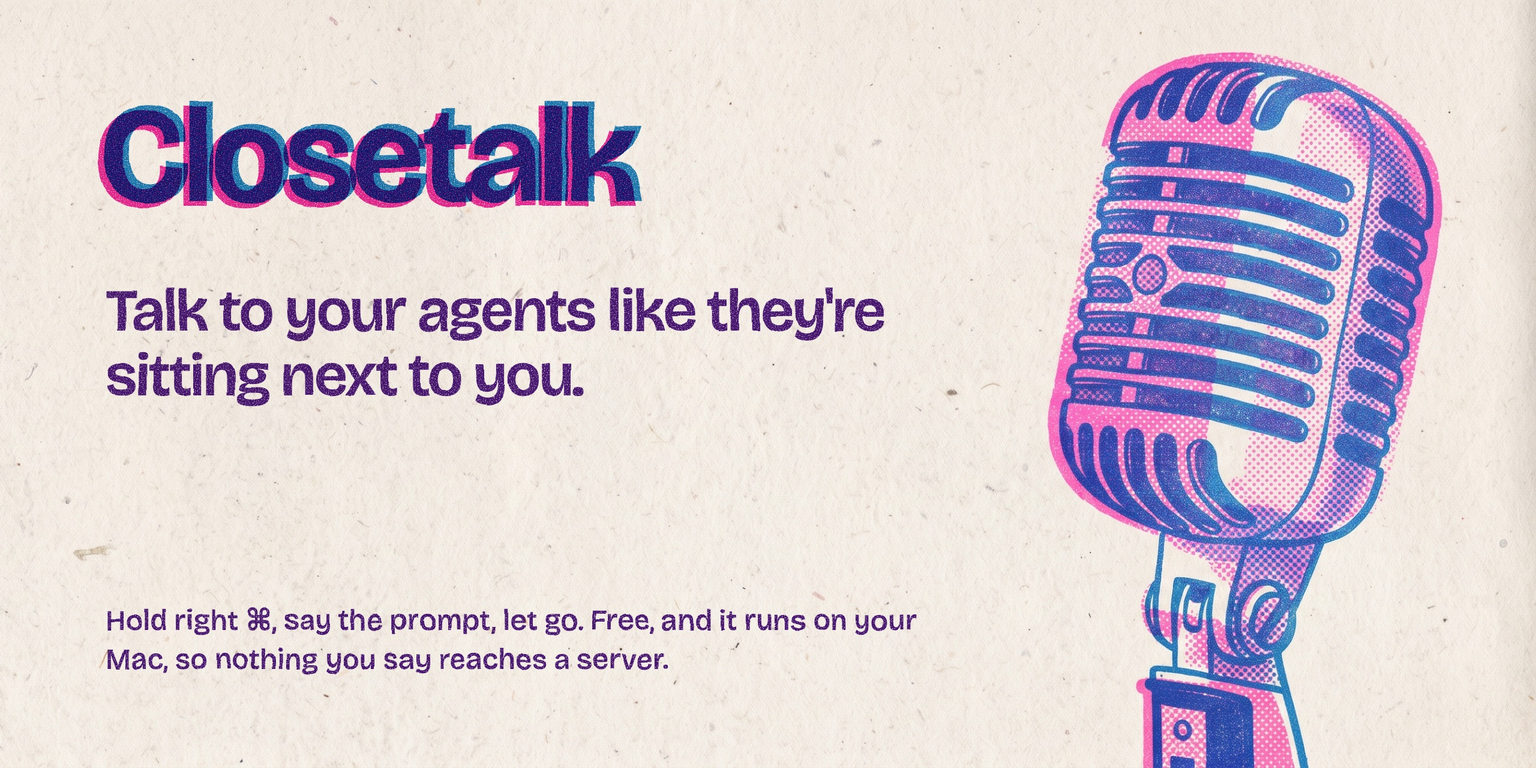
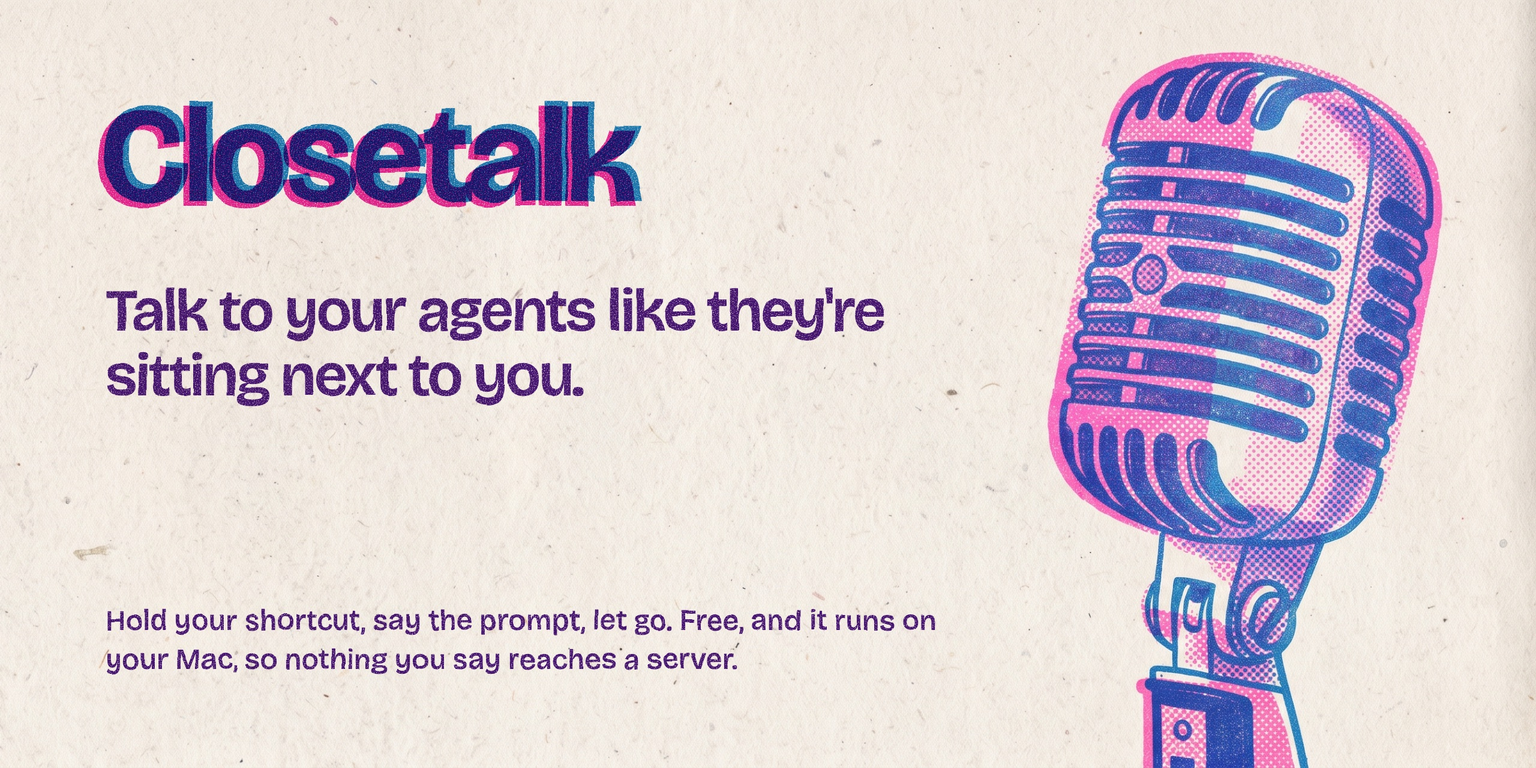
docs: stop presenting right ⌘ as the default shortcut
README, the landing page, the cover and social image, PRODUCT.md, DESIGN.md and the coding
standards now say "your shortcut", with right ⌘ only as one example. The hero no longer lights up
its shortcut callout when the visitor holds right ⌘.

Refs #50

Changed region(s): [[0.0625, 0.7812, 0.625, 0.875]]

diff --git a/site/app/mic-diagram.tsx b/site/app/mic-diagram.tsx
@@ -1,6 +1,3 @@
-"use client";
-
-import { useEffect, useState } from "react";
 import { preload } from "react-dom";
 
 // The hero diagram: the Riso mic with leader lines to four callouts. Coordinates live in one
@@ -48,8 +45,8 @@ const CALLOUTS: Callout[] = [
     side: "left",
     top: 330,
     pin: [579, 405],
-    title: "Hold right ⌘",
-    body: "Talk while you hold it. Let go, and the text lands at your cursor about a second later.",
+    title: "Hold your shortcut",
+    body: "Pick any key or combo in setup. Talk while you hold it, let go, and the text lands at your cursor.",
   },
   {
     id: "free",
@@ -70,25 +67,9 @@ export default function MicDiagram({ children }: { children: React.ReactNode }) 
   // The mic is the largest thing on the page, so fetch it before anything else.
   preload("/mic-ink.webp", { as: "image", fetchPriority: "high" });
 
-  // Holding right ⌘ on the page lights up the "Hold right ⌘" callout, the same gesture the app uses.
-  const [holding, setHolding] = useState(false);
-  useEffect(() => {
-    const down = (e: KeyboardEvent) => e.code === "MetaRight" && setHolding(true);
-    const up = (e: KeyboardEvent) => e.code === "MetaRight" && setHolding(false);
-    const reset = () => setHolding(false);
-    window.addEventListener("keydown", down);
-    window.addEventListener("keyup", up);
-    window.addEventListener("blur", reset);
-    return () => {
-      window.removeEventListener("keydown", down);
-      window.removeEventListener("keyup", up);
-      window.removeEventListener("blur", reset);
-    };
-  }, []);
-
   return (
     <div className="stage">
-      <div className="diagram" data-holding={holding || undefined}>
+      <div className="diagram">
         <svg className="diagram-art" viewBox={`0 0 ${STAGE.w} ${STAGE.h}`} role="img" aria-label="A vintage studio microphone, printed in pink and blue ink">
           <image href="/mic-ink.webp" x={MIC.x} y={MIC.y} width={MIC.w} height={MIC.h} />
           {CALLOUTS.map((c) => {

diff --git a/site/app/globals.css b/site/app/globals.css
@@ -69,13 +69,12 @@ p { margin: 0; }
 .callout h2 { font-size: clamp(17px, 1.9cqw, 23px); font-weight: 800; letter-spacing: -0.02em; line-height: 1.15; transition: color 160ms ease-out; }
 .callout p { margin-top: 6px; font-size: clamp(14px, 1.4cqw, 16.5px); line-height: 1.45; color: var(--purple-2); }
 
-/* A callout lights up its line in pink ink on hover, and "Hold right ⌘" lights up while you hold the key. */
+/* A callout lights up its line in pink ink on hover. */
 .diagram:has(.callout[data-id="local"]:hover) .leader[data-for="local"],
 .diagram:has(.callout[data-id="words"]:hover) .leader[data-for="words"],
 .diagram:has(.callout[data-id="key"]:hover) .leader[data-for="key"],
-.diagram:has(.callout[data-id="free"]:hover) .leader[data-for="free"],
-.diagram[data-holding] .leader[data-for="key"] { --hot: 1; }
-.callout:hover h2, .diagram[data-holding] .callout[data-id="key"] h2 { color: var(--pink); }
+.diagram:has(.callout[data-id="free"]:hover) .leader[data-for="free"] { --hot: 1; }
+.callout:hover h2 { color: var(--pink); }
 
 /* The mic's stand ends at the stage's bottom edge, centered 1.02% right of the stage's middle.
    The Download plate butts against it there, as the mic's base. */

diff --git a/site/app/page.tsx b/site/app/page.tsx
@@ -11,7 +11,7 @@ const APP_JSON_LD = {
   "@type": "SoftwareApplication",
   name: "Closetalk",
   description:
-    "Push-to-talk dictation for your Mac. Hold right Command, say the prompt, let go, and the text appears at your cursor. Runs on your Mac with no account.",
+    "Push-to-talk dictation for your Mac. Hold your shortcut, say the prompt, let go, and the text appears at your cursor. Runs on your Mac with no account.",
   url: "https://closetalk.dev/",
   applicationCategory: "UtilitiesApplication",
   operatingSystem: "macOS 14 or later",
@@ -130,7 +130,7 @@ export default function Home() {
         <PrintedHeading id="how">Hold, talk, let go.</PrintedHeading>
         <ol className="steps">
           <li>
-            <strong>Hold right ⌘.</strong> A soft chime means the mic is live.
+            <strong>Hold your shortcut.</strong> A soft chime means the mic is live.
           </li>
           <li>
             <strong>Say the prompt.</strong> Talk the way you would to someone next to you.

diff --git a/assets/src/cover.html b/assets/src/cover.html
@@ -43,7 +43,7 @@
 
   <div class="word"><span class="pink ink">Closetalk</span><span class="blue ink">Closetalk</span></div>
   <p class="headline ink">Talk to your agents like they're sitting next to you.</p>
-  <p class="sub ink">Hold right ⌘, say the prompt, let go. Free, and it runs on your Mac, so nothing you say reaches a server.</p>
+  <p class="sub ink">Hold your shortcut, say the prompt, let go. Free, and it runs on your Mac, so nothing you say reaches a server.</p>
 
   <!-- Ink grain: roughens the edges a little and knocks small specks out of the solids. -->
   <svg width="0" height="0" style="position:absolute">

diff --git a/site/app/layout.tsx b/site/app/layout.tsx
@@ -16,7 +16,7 @@ export const metadata: Metadata = {
   metadataBase: new URL("https://closetalk.dev"),
   title: "Closetalk: push-to-talk dictation that runs on your Mac",
   description:
-    "Hold right ⌘, say the prompt, let go. Closetalk types it wherever your cursor is. Free, no account, and nothing you say leaves your Mac.",
+    "Hold your shortcut, say the prompt, let go. Closetalk types it wherever your cursor is. Free, no account, and nothing you say leaves your Mac.",
 };
 
 export default function RootLayout({ children }: { children: React.ReactNode }) {

diff --git a/README.md b/README.md
@@ -1,6 +1,6 @@
 <p align="center"><img src="assets/cover.jpg" alt="Closetalk: talk to your agents like they're sitting next to you" width="100%"></p>
 
-[Closetalk](https://closetalk.dev) ([closetalk.dev](https://closetalk.dev)) is push-to-talk dictation for your Mac. Hold the right Command key, say what you want, and let go. About a second later the text appears wherever your cursor is: a terminal, VS Code, Claude Code, Slack, a browser.
+[Closetalk](https://closetalk.dev) ([closetalk.dev](https://closetalk.dev)) is push-to-talk dictation for your Mac. Hold your shortcut, say what you want, and let go. About a second later the text appears wherever your cursor is: a terminal, VS Code, Claude Code, Slack, a browser.
 
 It runs OpenAI's Whisper model on your Mac. Your voice never leaves the machine, there's no account, and it costs nothing. I built it as a free stand-in for Superwhisper and Wispr Flow, mostly for talking to coding agents.
 
@@ -42,8 +42,9 @@ The build script creates a local code signing certificate called "Closetalk Dev"
 ## First launch
 
 1. Allow microphone access when macOS asks.
-2. Turn on Closetalk in System Settings > Privacy & Security > Accessibility. It needs this to see the right Command key and to paste. No restart needed.
-3. Wait for the model. Closetalk downloads 1.5 GB and gets it ready, which took about 11 minutes on an M1 Max. It happens once. Later launches are ready in a few seconds.
+2. Turn on Closetalk in System Settings > Privacy & Security > Accessibility. It needs this to see your shortcut and to paste. No restart needed.
+3. Choose your shortcut: the key or combo you'll hold to talk, like fn, right ⌘ or ⌃⌥Space.
+4. Wait for the model. Closetalk downloads 1.5 GB and gets it ready, which took about 11 minutes on an M1 Max. It happens once. Later launches are ready in a few seconds.
 
 The menu bar icon shows where things stand:
 
@@ -55,17 +56,17 @@ The menu bar icon shows where things stand:
 | Waveform | Transcribing |
 | Warning triangle | Needs attention. Open the menu to see why. |
 
-The menu also has the microphone picker, a launch at login toggle and Check for Updates. Change shortcut… records a different key or combo to hold instead of right ⌘, like fn or ⌃⌥Space.
+The menu also has the microphone picker, a launch at login toggle and Check for Updates. Change shortcut… records a different key or combo to hold.
 
 ## Troubleshooting
 
-**Nothing happens when I hold right Command in Terminal or iTerm.** Turn off Secure Keyboard Entry in that app's menu. While it's on, macOS hides keystrokes from every other app, Closetalk included.
+**Nothing happens when I hold my shortcut in Terminal or iTerm.** Turn off Secure Keyboard Entry in that app's menu. While it's on, macOS hides keystrokes from every other app, Closetalk included.
 
 **Holding fn opens the emoji picker or starts macOS Dictation.** In System Settings > Keyboard, set "Press 🌐 key to" to Do Nothing.
 
 **The first words get cut off.** You're probably on a Bluetooth mic. Wait for the first chime before talking, or switch to the built-in mic in the menu.
 
-**The orange mic dot flashes when I use a right ⌘ shortcut.** Closetalk opens the mic the moment you press right Command, so it doesn't miss your first word. A shortcut or a quick tap cancels the recording, and nothing gets transcribed.
+**The orange mic dot flashes when I use my shortcut's key for something else.** Closetalk opens the mic the moment you press your shortcut, so it doesn't miss your first word. A shortcut or a quick tap cancels the recording, and nothing gets transcribed.
 
 **The menu still asks for Accessibility after I turned it on.** You probably granted it to an older copy of the app. Remove Closetalk from the Accessibility list with the minus button, then add `/Applications/Closetalk.app` again.
 

diff --git a/PRODUCT.md b/PRODUCT.md
@@ -20,7 +20,7 @@ Hardware floor: Apple Silicon (M1 or later), macOS 14 or later, about 3 GB free 
 
 ## Product Purpose
 
-Closetalk is push-to-talk dictation. Hold the right Command key, talk, let go, and the text appears wherever the cursor is, about a second later. It exists as a free stand-in for paid dictation apps, built mostly for talking to coding agents. Success is a user who stops reaching for the keyboard to write prompts.
+Closetalk is push-to-talk dictation. Hold your shortcut, talk, let go, and the text appears wherever the cursor is, about a second later. It exists as a free stand-in for paid dictation apps, built mostly for talking to coding agents. Success is a user who stops reaching for the keyboard to write prompts.
 
 ## Positioning
 
@@ -30,12 +30,12 @@ Named competitors: Superwhisper and Wispr Flow.
 
 Supporting differences, in order:
 1. Keeps your exact words. Only "um" and "uh" are removed. No AI rewrite, so `foo()` and `args[0]` survive.
-2. One key, nothing else. No window, no mode switch. Right Command shortcuts (right ⌘C, ⌘Tab) still work, and a quick tap does nothing.
+2. One key, nothing else. No window, no mode switch. People choose the key or combo in setup, other shortcuts that use that key still work, and a quick tap does nothing.
 
 ## Operating Context
 
 - Lives in the menu bar only. No Dock icon, no main window.
-- Interaction: hold right Command, hear a start chime, talk, release, hear a stop chime, text is pasted at the cursor. The clipboard is restored two seconds later, and password-manager copies are never put on it.
+- Interaction: hold the shortcut chosen in setup, hear a start chime, talk, release, hear a stop chime, text is pasted at the cursor. The clipboard is restored two seconds later, and password-manager copies are never put on it.
 - Consecutive dictations land with a space between them. Typing or clicking elsewhere resets that.
 - Menu bar states: downloading or loading the model, ready, recording, transcribing, needs attention. The menu holds a status line, the microphone picker, launch at login, Check for Updates, and quit.
 - First launch: grant microphone and Accessibility permissions, then wait for a 1.5 GB model download and a one-time Neural Engine compile (about 11 minutes on an M1 Max).

diff --git a/.impeccable/surfaces/site-app-page-tsx.md b/.impeccable/surfaces/site-app-page-tsx.md
@@ -19,7 +19,7 @@ THESIS: The Riso mic printed as a labeled product diagram: every leader line poi
 
 OWN-WORLD: Uncoated paper ground with fiber grain. Two inks only, fluorescent pink #ed269d and blue #1c81c3, overprinting to purple #4a147d for text. Bricolage Grotesque for display and body. Thin blue leader lines with round pins, halftone mic art printed with multiply, wordmark printed twice off-register.
 
-STORY: The visitor reads the headline, follows the four callouts around the mic (runs on your Mac, hold right ⌘, your exact words, free with no account), downloads from the mic's base, then scrolls to the free-because-local argument, the demo and the questions.
+STORY: The visitor reads the headline, follows the four callouts around the mic (runs on your Mac, hold your shortcut, your exact words, free with no account), downloads from the mic's base, then scrolls to the free-because-local argument, the demo and the questions.
 
 FIRST VIEWPORT: Headline across the top. The mic large and centered, four callouts at its sides joined by leader lines to pins on the mic. Download for Mac plus requirements printed on the mic's base, centered under it.
 

diff --git a/DESIGN.md b/DESIGN.md
@@ -130,7 +130,7 @@ The page stays print in every system theme. It declares `color-scheme: light` an
 Paper plus two fluorescent Riso inks; every other color is the result of those inks overprinting or thinning.
 
 ### Primary
-- **Fluorescent Pink** (pink): the accent ink. It prints as the offset plate of the wordmark, section headings and Download button, the step numerals, the FAQ plus marks, the caret, and every hover or "hot" state (a callout's leader line and title turn pink while hovered, or while the visitor holds right ⌘).
+- **Fluorescent Pink** (pink): the accent ink. It prints as the offset plate of the wordmark, section headings and Download button, the step numerals, the FAQ plus marks, the caret, and every hover or "hot" state (a callout's leader line and title turn pink while hovered).
 
 ### Secondary
 - **Riso Blue** (blue): the structural ink. It draws leader lines, pins, link underlines, focus rings, FAQ rules, the dotted colophon rule, the halftone tint behind the fact sheet, and the flood plate behind the demo. It is the registered plate in every two-plate print.

diff --git a/CODING_STANDARDS.md b/CODING_STANDARDS.md
@@ -8,7 +8,7 @@ Every factual claim on the site, in the README or in app copy (timings, sizes, p
 
 ## Copy names the user's shortcut
 
-The dictation shortcut is configurable. App copy that tells people what to press uses `DictationShortcutSettings.shortcut.name`, never a hardcoded "right ⌘". Docs and the site may say "right ⌘" as the default.
+The dictation shortcut is chosen in setup, and there's no default. App copy that tells people what to press uses `DictationShortcutSettings.shortcut?.name`, and says "your shortcut" when none is saved. Nothing in the app, docs or site presents right ⌘ as the default. It may appear as one example among others.
 
 ## Copies of one fact change together
 
